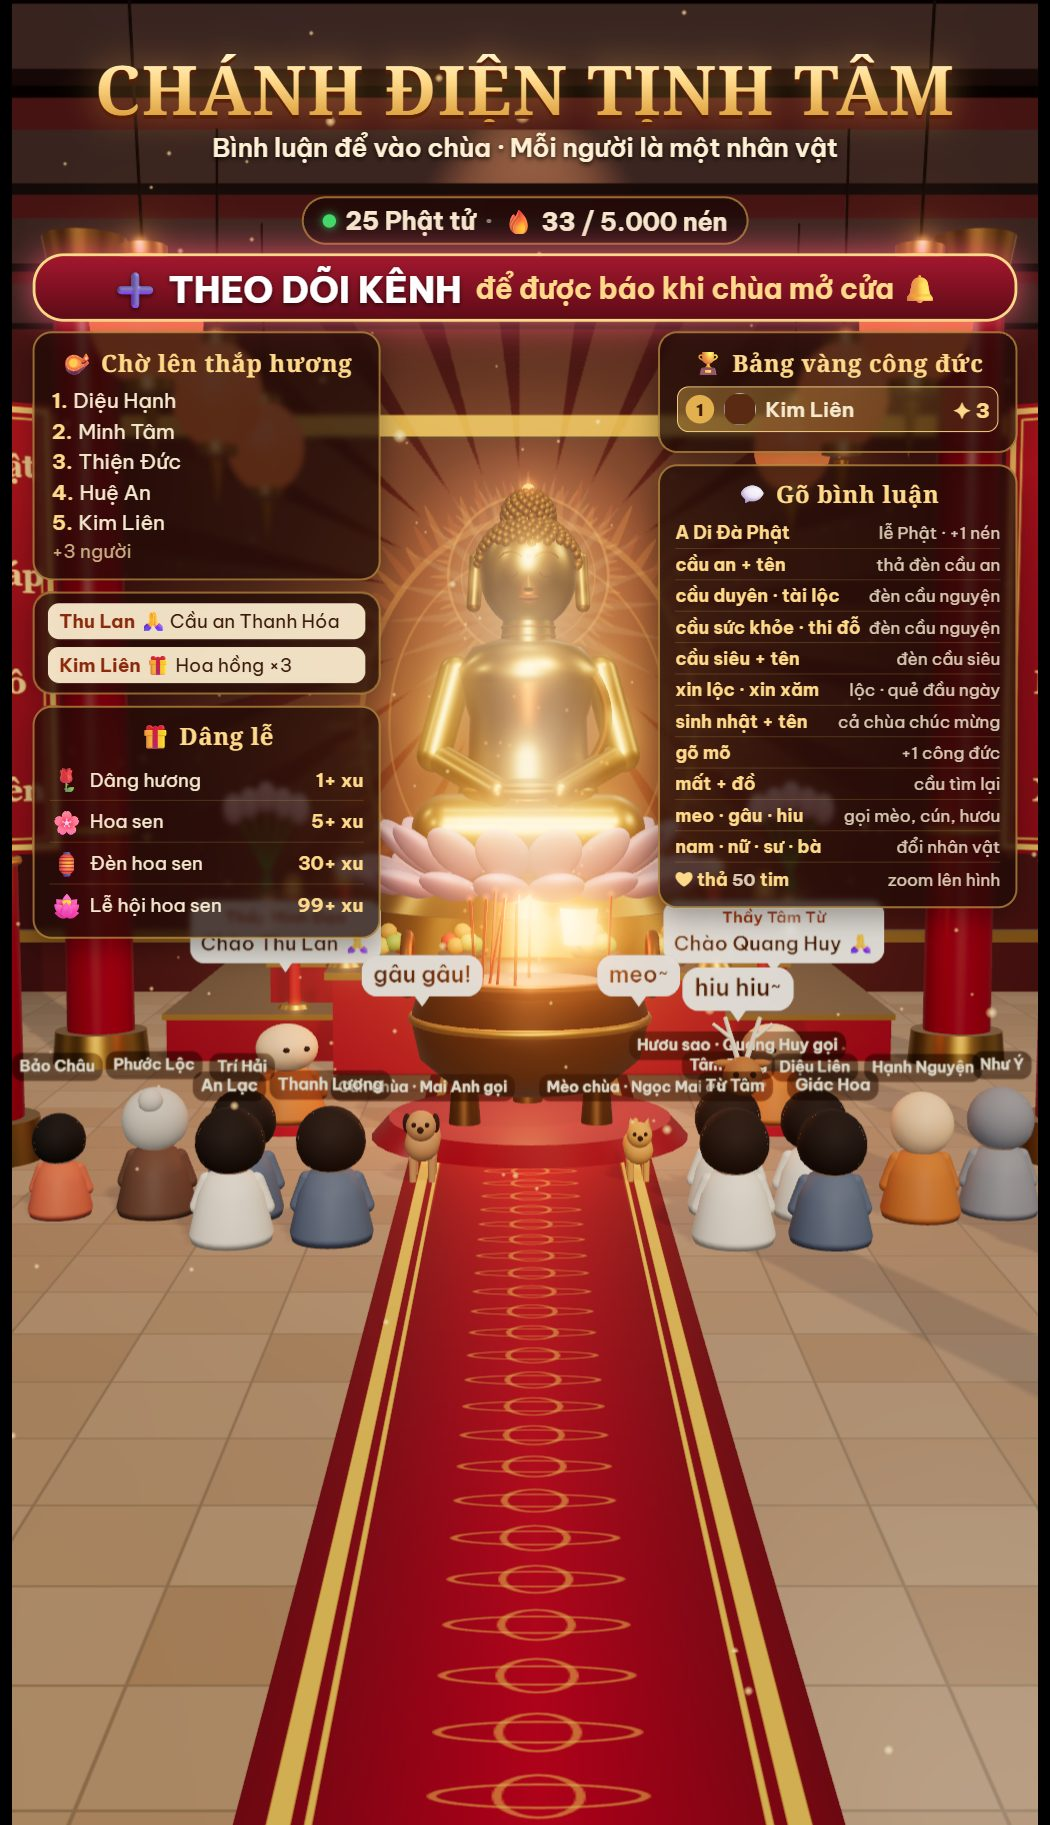
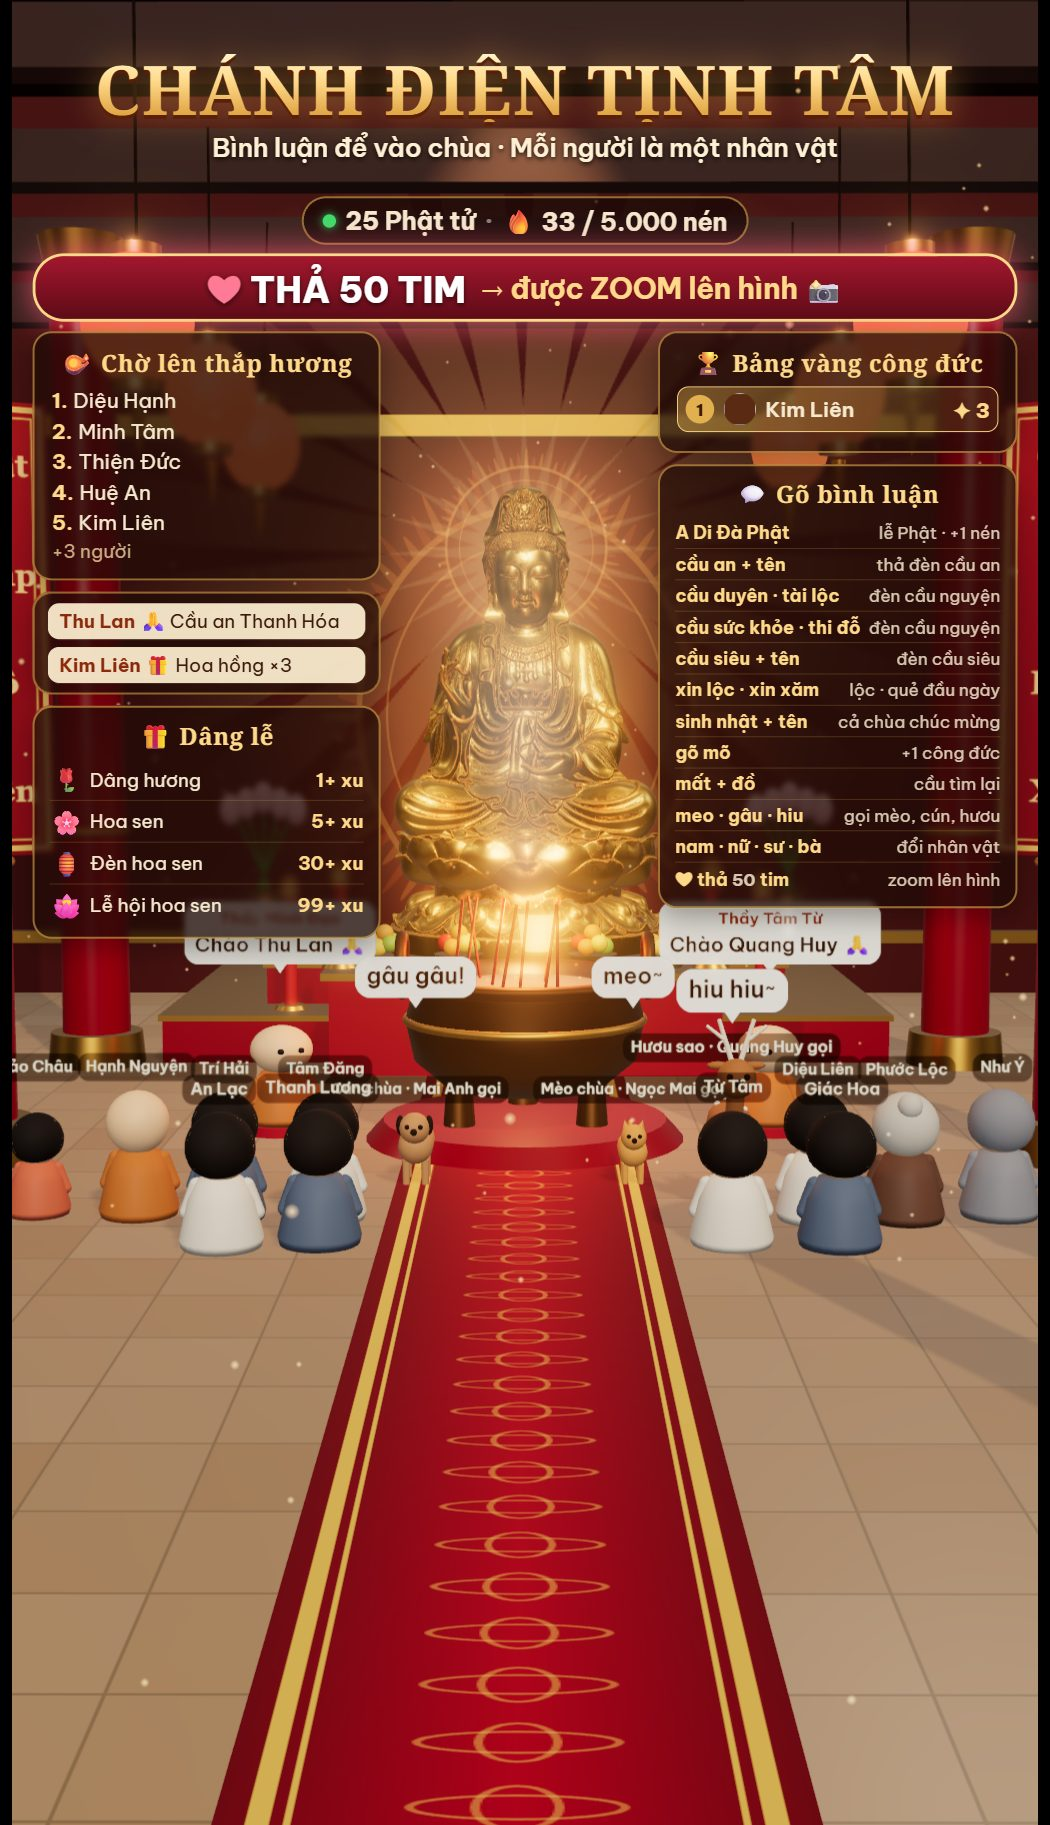
README: screenshots with the Quan Âm statue

diff --git a/README.md b/README.md
@@ -3,10 +3,12 @@
 Chánh điện online cho TikTok LIVE, có hai giao diện **2.5D** và **3D**. Mỗi người xem bình luận là bước vào chánh điện. Ở bản 3D, nhân vật của họ đi theo thảm đỏ lên lư hương thắp nhang rồi đứng lại cùng đại chúng. Người xem cầu an, xin lộc, gõ mõ, gọi mèo chùa bằng bình luận. Ai tặng quà được xướng tên hồi hướng bằng giọng đọc tiếng Việt. Có nhạc thiền, chuông, mõ, lịch tụng kinh và thiền dẫn.
 
 <p align="center">
-  <img src="docs/screenshots/3d-hall.jpg" width="31%" alt="Chánh điện 3D: nhân vật xếp hàng thắp hương, mèo, cún, hươu và bảng hướng dẫn">
+  <img src="docs/screenshots/3d-hall.jpg" width="31%" alt="Chánh điện 3D với tượng Quan Âm: nhân vật xếp hàng thắp hương, mèo, cún, hươu và bảng hướng dẫn">
   <img src="docs/screenshots/3d-meditation.jpg" width="31%" alt="Thiền dẫn: vòng tròn hít thở, đồng hồ và lời dẫn">
   <img src="docs/screenshots/2d-overlay.jpg" width="31%" alt="Giao diện 2.5D: đèn cầu nguyện, quẻ xăm, mõ">
 </p>
+
+<p align="center"><sub>Tượng Quan Âm trong ảnh là mẫu 3D riêng của kênh, không kèm trong repo. Bản tải về dùng tượng Phật vàng dựng bằng code; muốn dùng tượng của bạn, xem mục <a href="#tượng-3d-của-riêng-bạn">Tượng 3D của riêng bạn</a>.</sub></p>
 
 Mã nguồn miễn phí (MIT), phát triển tiếp từ [Chánh Điện Online của Kent Juno](https://github.com/kentjuno/chanh-dien-online).
 
